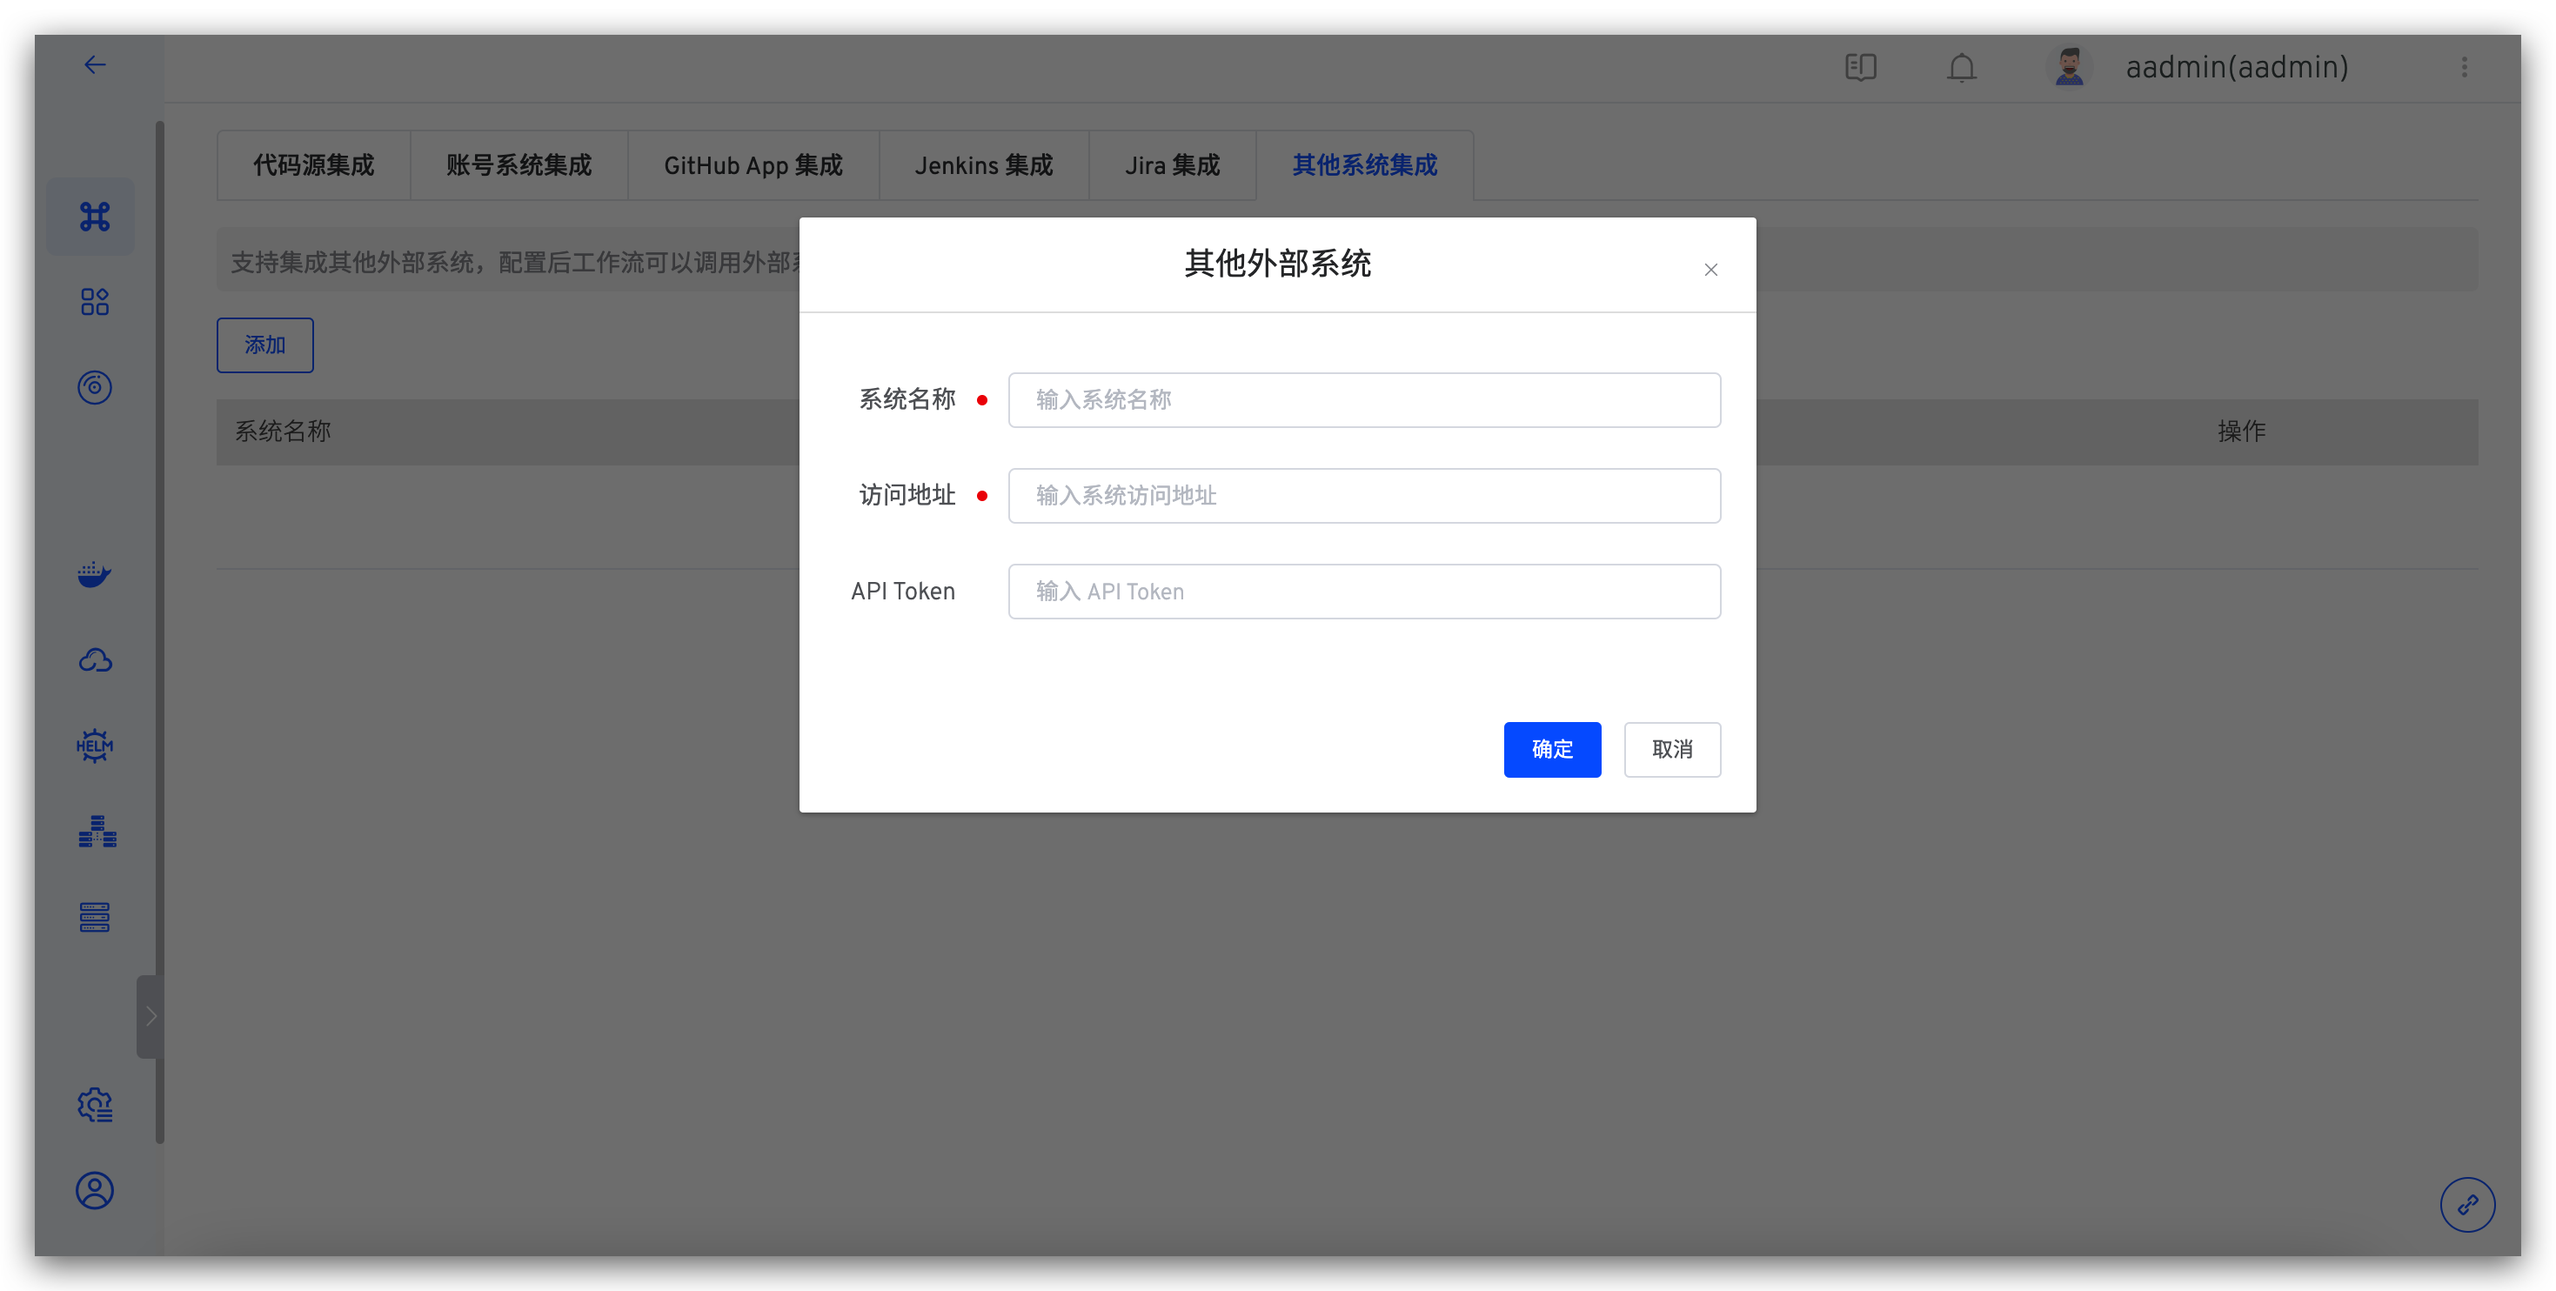
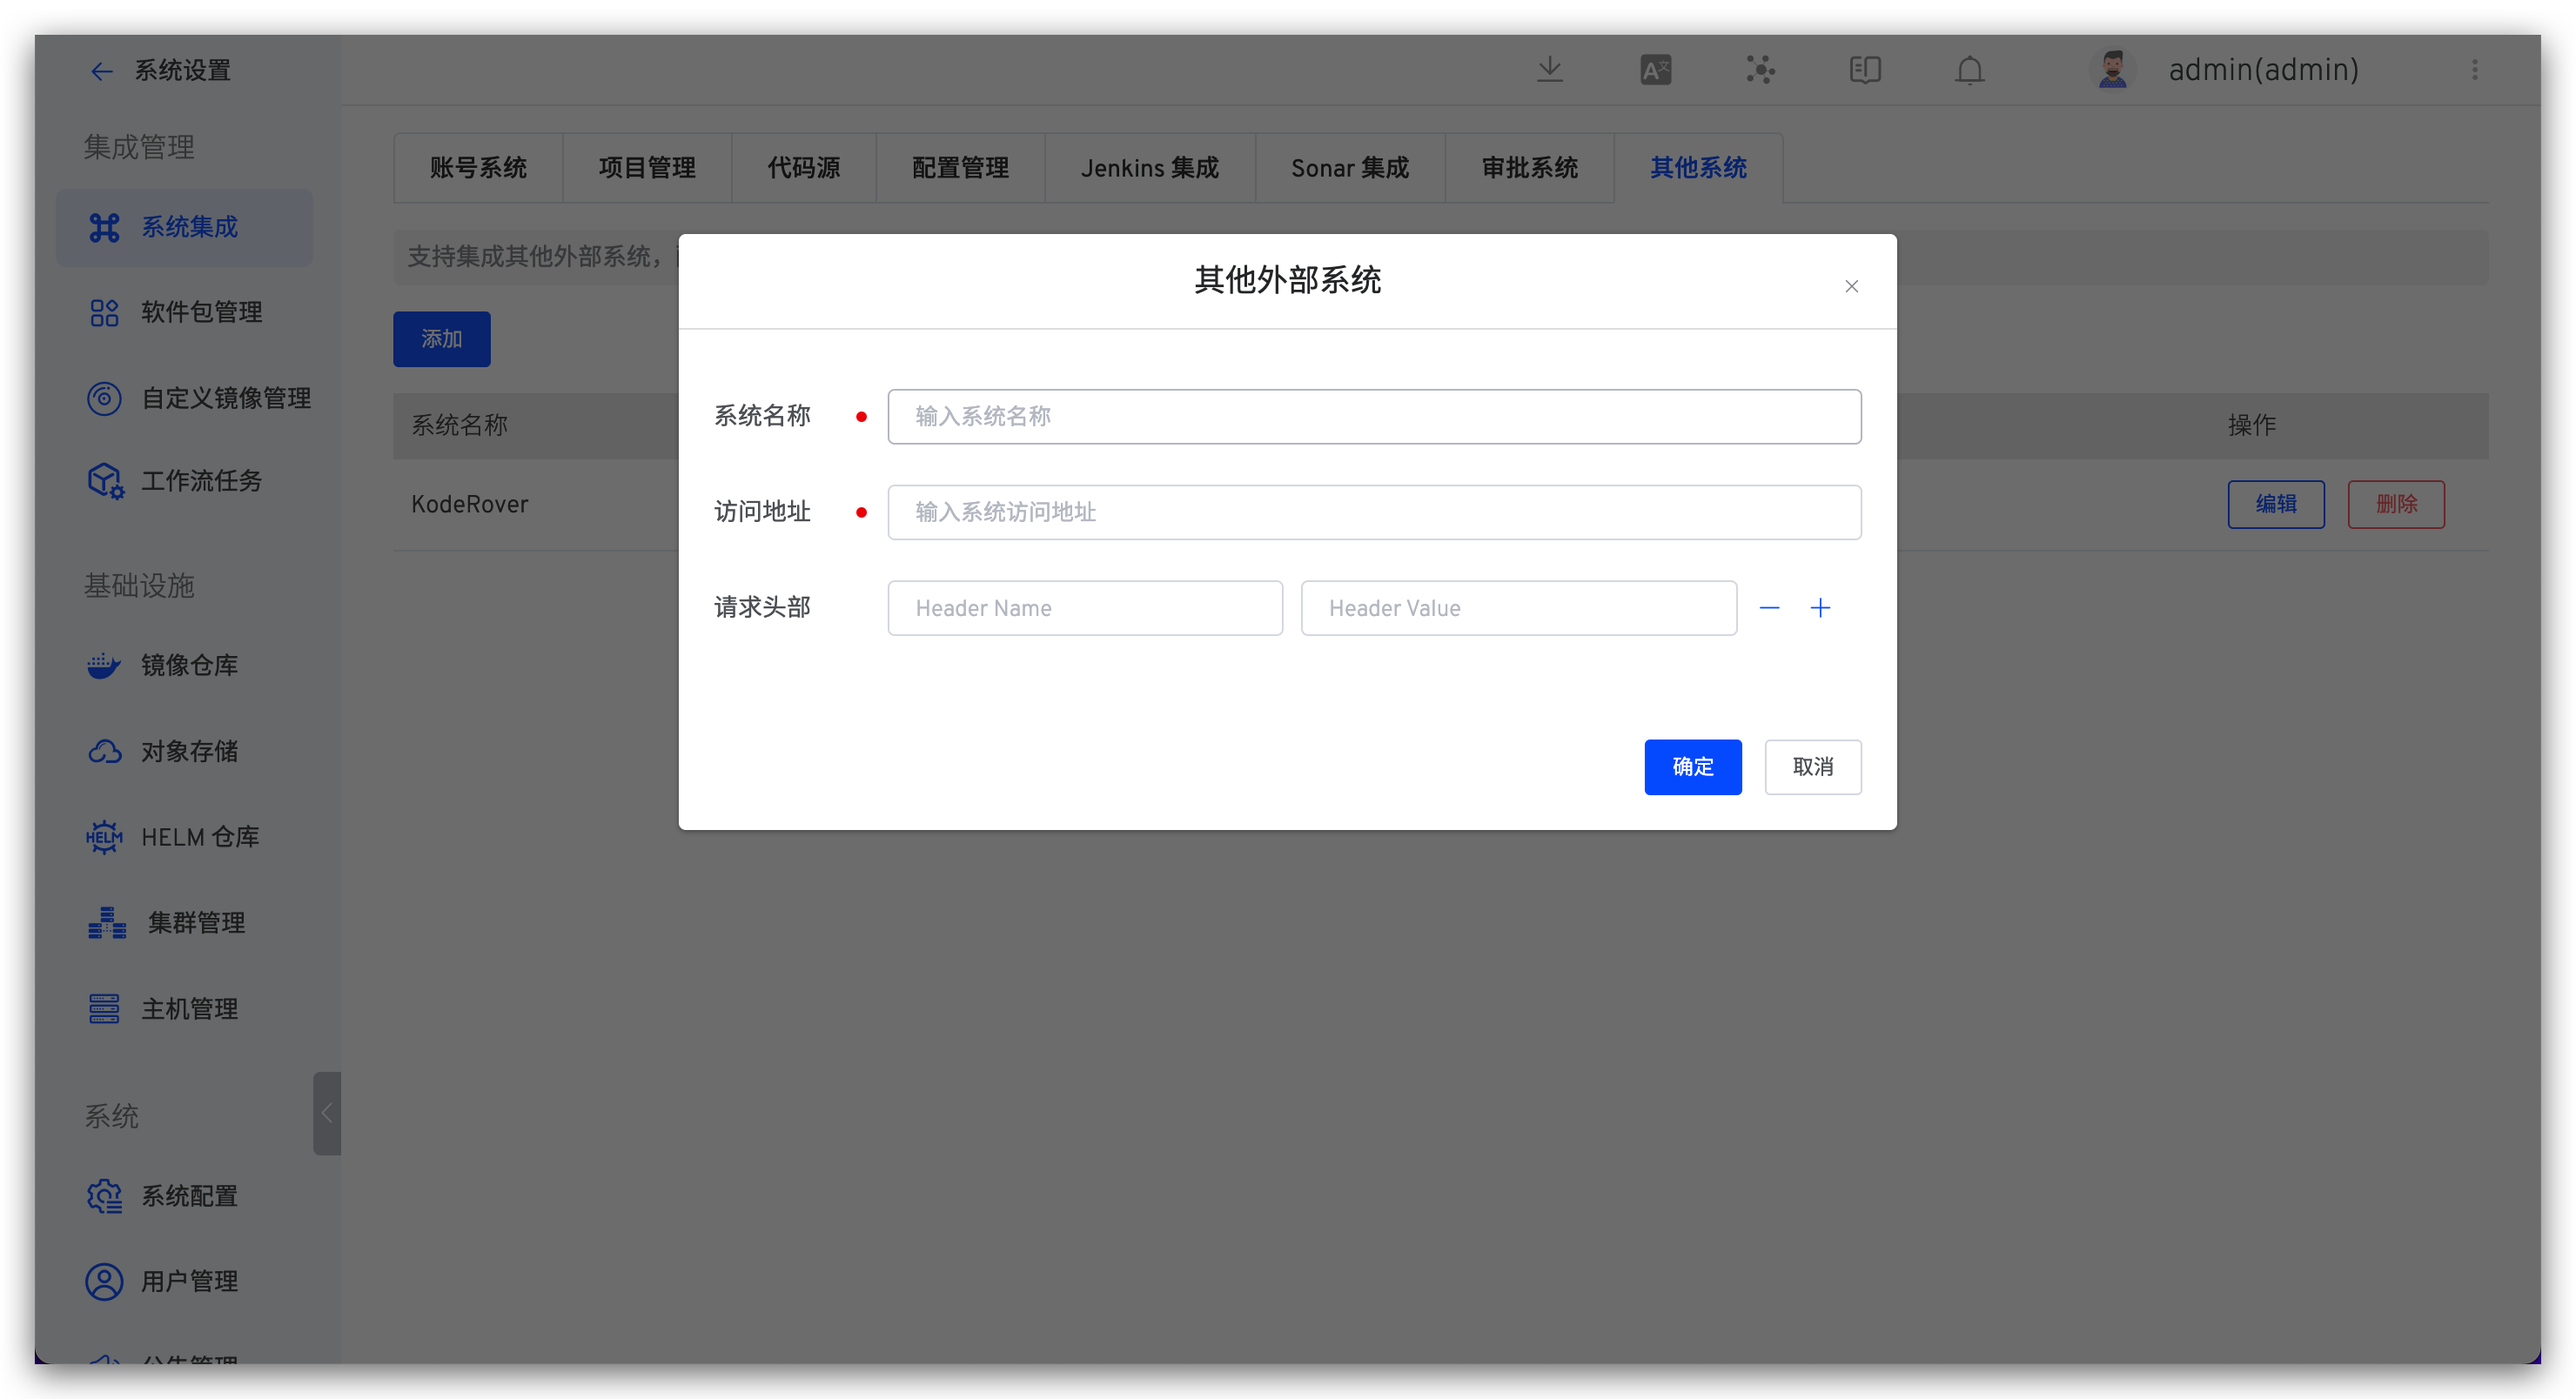
update other system config

diff --git a/ZadigX v1.4.0/05.功能介绍/18.系统设置/08.others.md b/ZadigX v1.4.0/05.功能介绍/18.系统设置/08.others.md
@@ -4,10 +4,10 @@ date: 2022-01-04 21:07:03
 permalink: /ZadigX v1.4.0/settings/others/
 ---
 
-本文介绍在 ZadigX 系统上集成其他外部系统。
-主要应用场景
+本文介绍在 ZadigX 系统上集成其他外部系统。主要应用场景：
 1. 在`版本交付`-> `创建版本` 模块，配置 Hook 后，外部系统可以接收 Helm Chart 版本交付完成的信息。
 2. 在`工作流` -> `扩展` 模块，配置扩展后，外部系统可以接收工作流任务的相关信息。
+3. 在`数据视图` -> `效能洞察` 模块，配置指标项，可以从外部系统采集数据。
 
 访问 ZadigX，点击 `系统设置` -> `集成管理`  -> `其他系统集成` ，添加外部系统相关信息，如下图所示。
 
@@ -17,4 +17,4 @@ permalink: /ZadigX v1.4.0/settings/others/
 
 - `系统名称`：外部系统名称。
 - `访问地址`：外部系统访问地址。
-- `API Token` ：请求外部系统所需要的 API Token，非必填。
+- `请求头部` ：请求外部系统所需要的请求头信息，非必填。

diff --git a/ZadigX dev/05.功能介绍/18.系统设置/08.others.md b/ZadigX dev/05.功能介绍/18.系统设置/08.others.md
@@ -4,10 +4,10 @@ date: 2022-01-04 21:07:03
 permalink: /ZadigX dev/settings/others/
 ---
 
-本文介绍在 ZadigX 系统上集成其他外部系统。
-主要应用场景
+本文介绍在 ZadigX 系统上集成其他外部系统。主要应用场景：
 1. 在`版本交付`-> `创建版本` 模块，配置 Hook 后，外部系统可以接收 Helm Chart 版本交付完成的信息。
 2. 在`工作流` -> `扩展` 模块，配置扩展后，外部系统可以接收工作流任务的相关信息。
+3. 在`数据视图` -> `效能洞察` 模块，配置指标项，可以从外部系统采集数据。
 
 访问 ZadigX，点击 `系统设置` -> `集成管理`  -> `其他系统集成` ，添加外部系统相关信息，如下图所示。
 
@@ -17,4 +17,4 @@ permalink: /ZadigX dev/settings/others/
 
 - `系统名称`：外部系统名称。
 - `访问地址`：外部系统访问地址。
-- `API Token` ：请求外部系统所需要的 API Token，非必填。
+- `请求头部` ：请求外部系统所需要的请求头信息，非必填。
